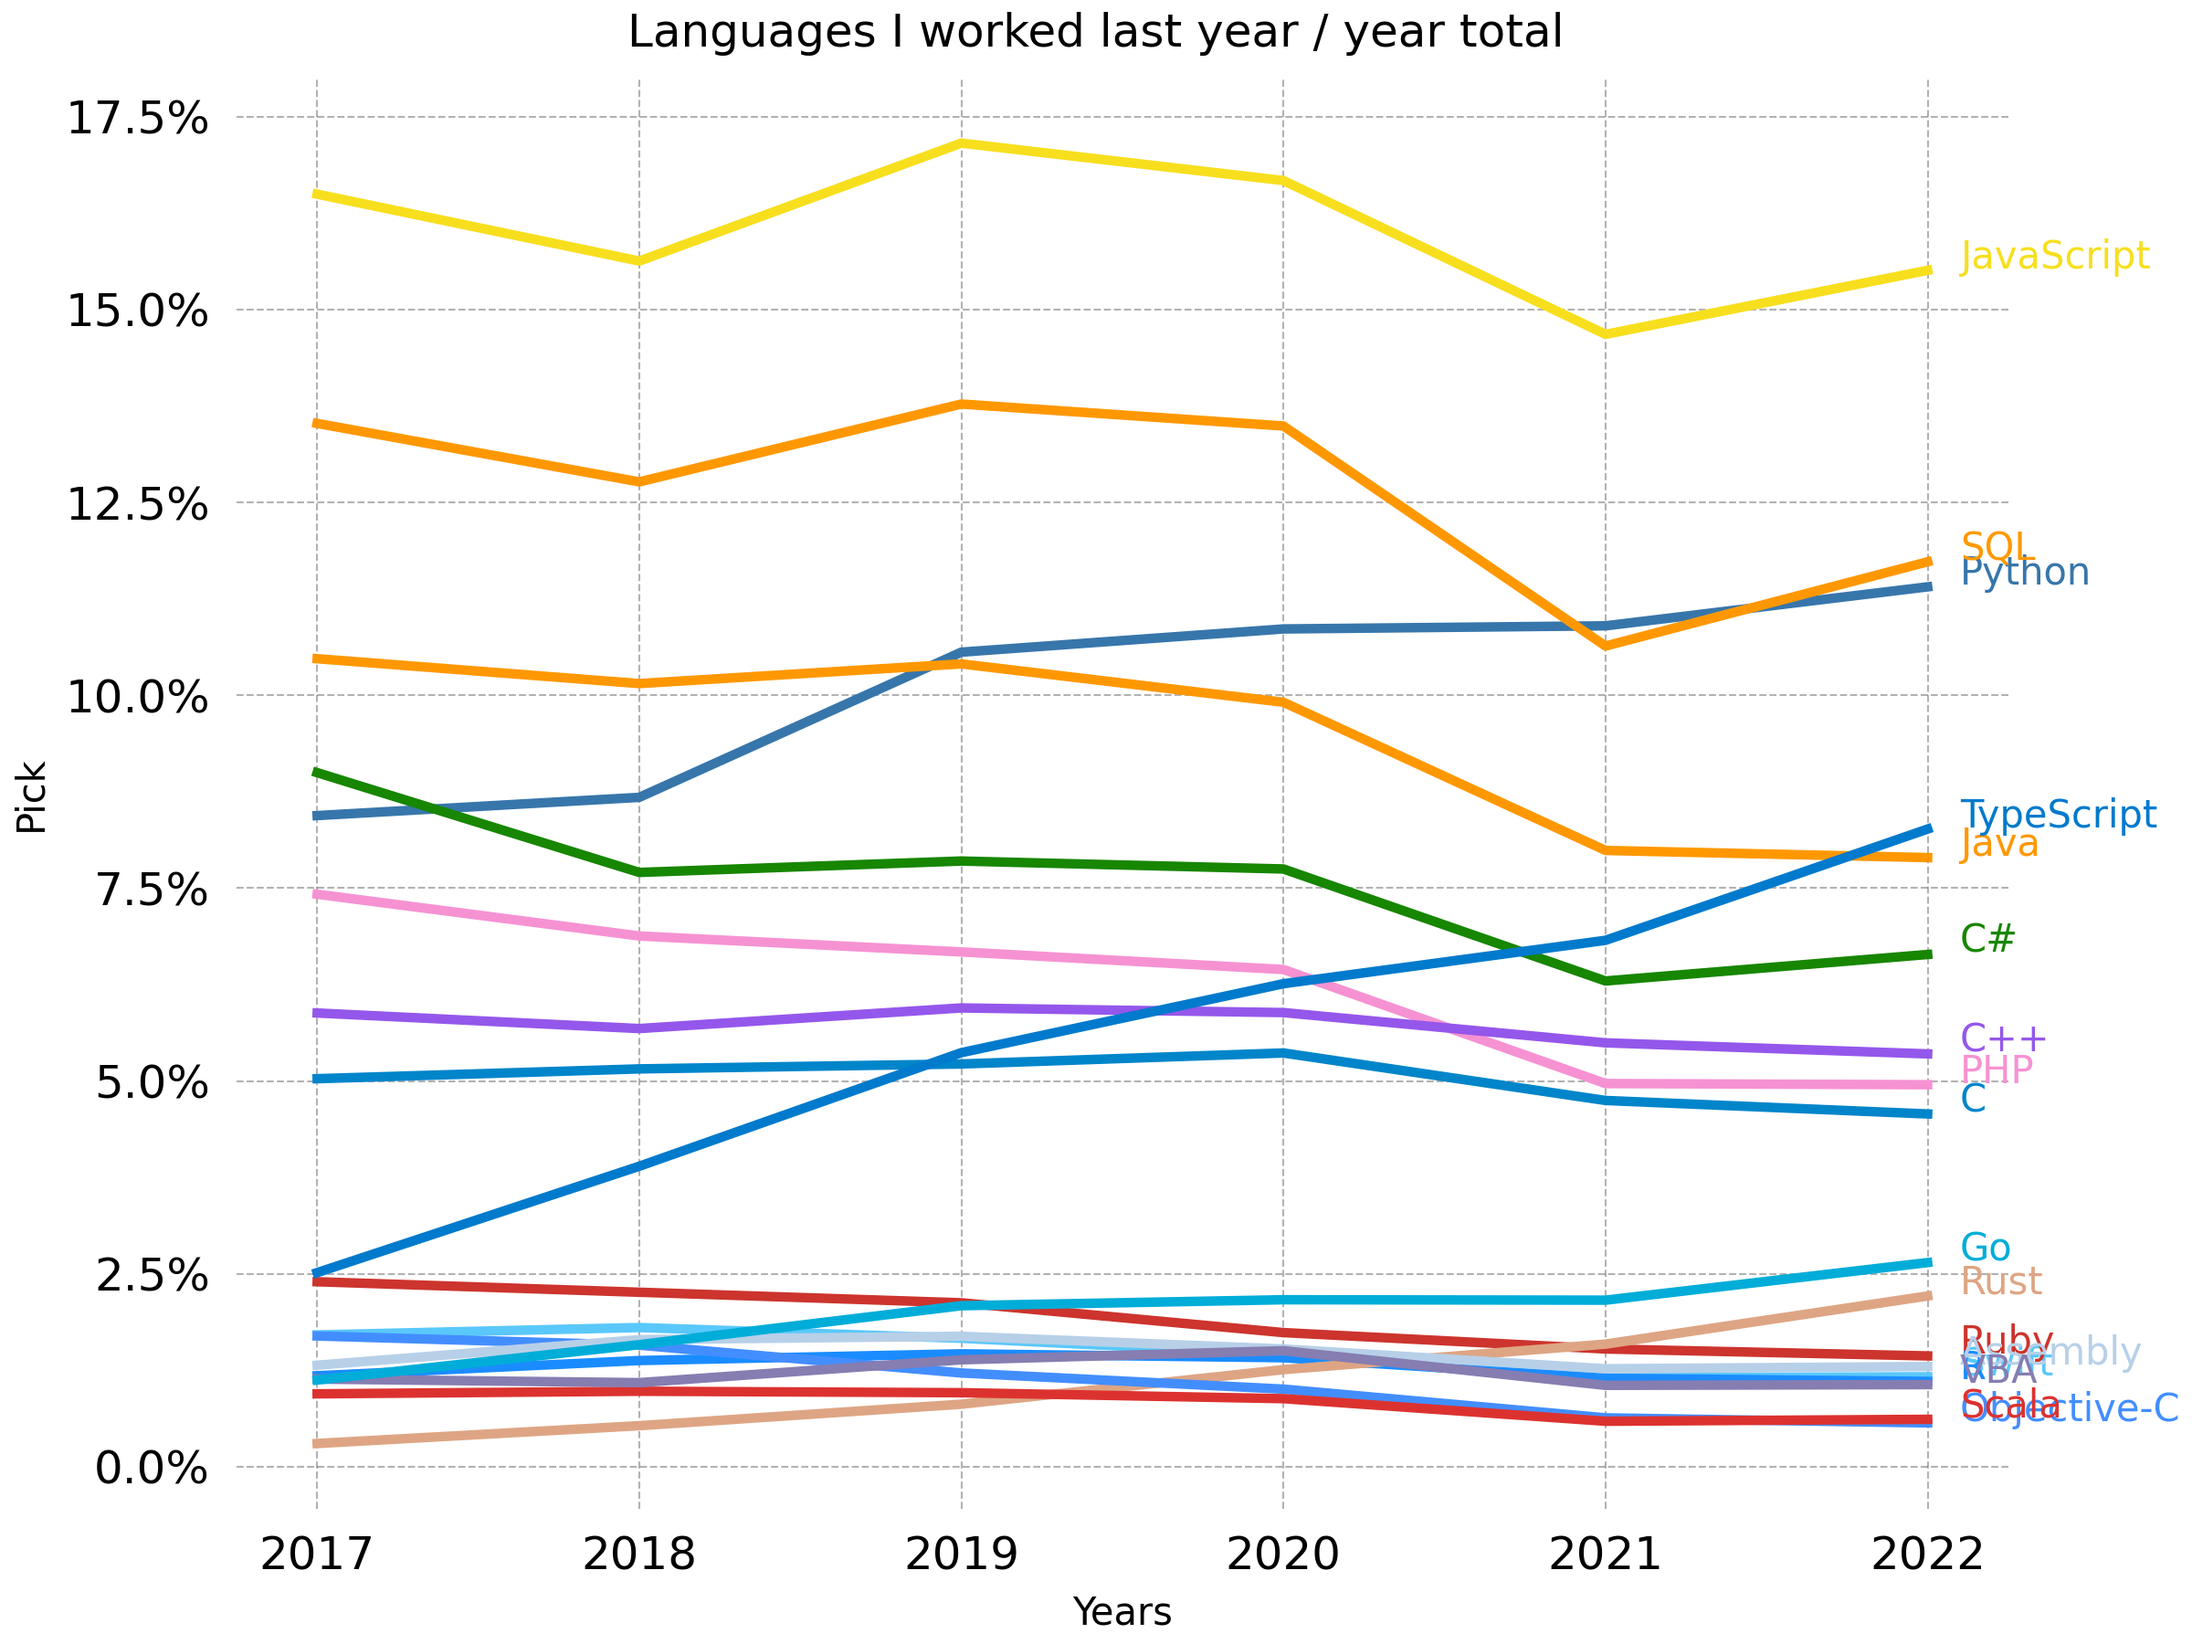
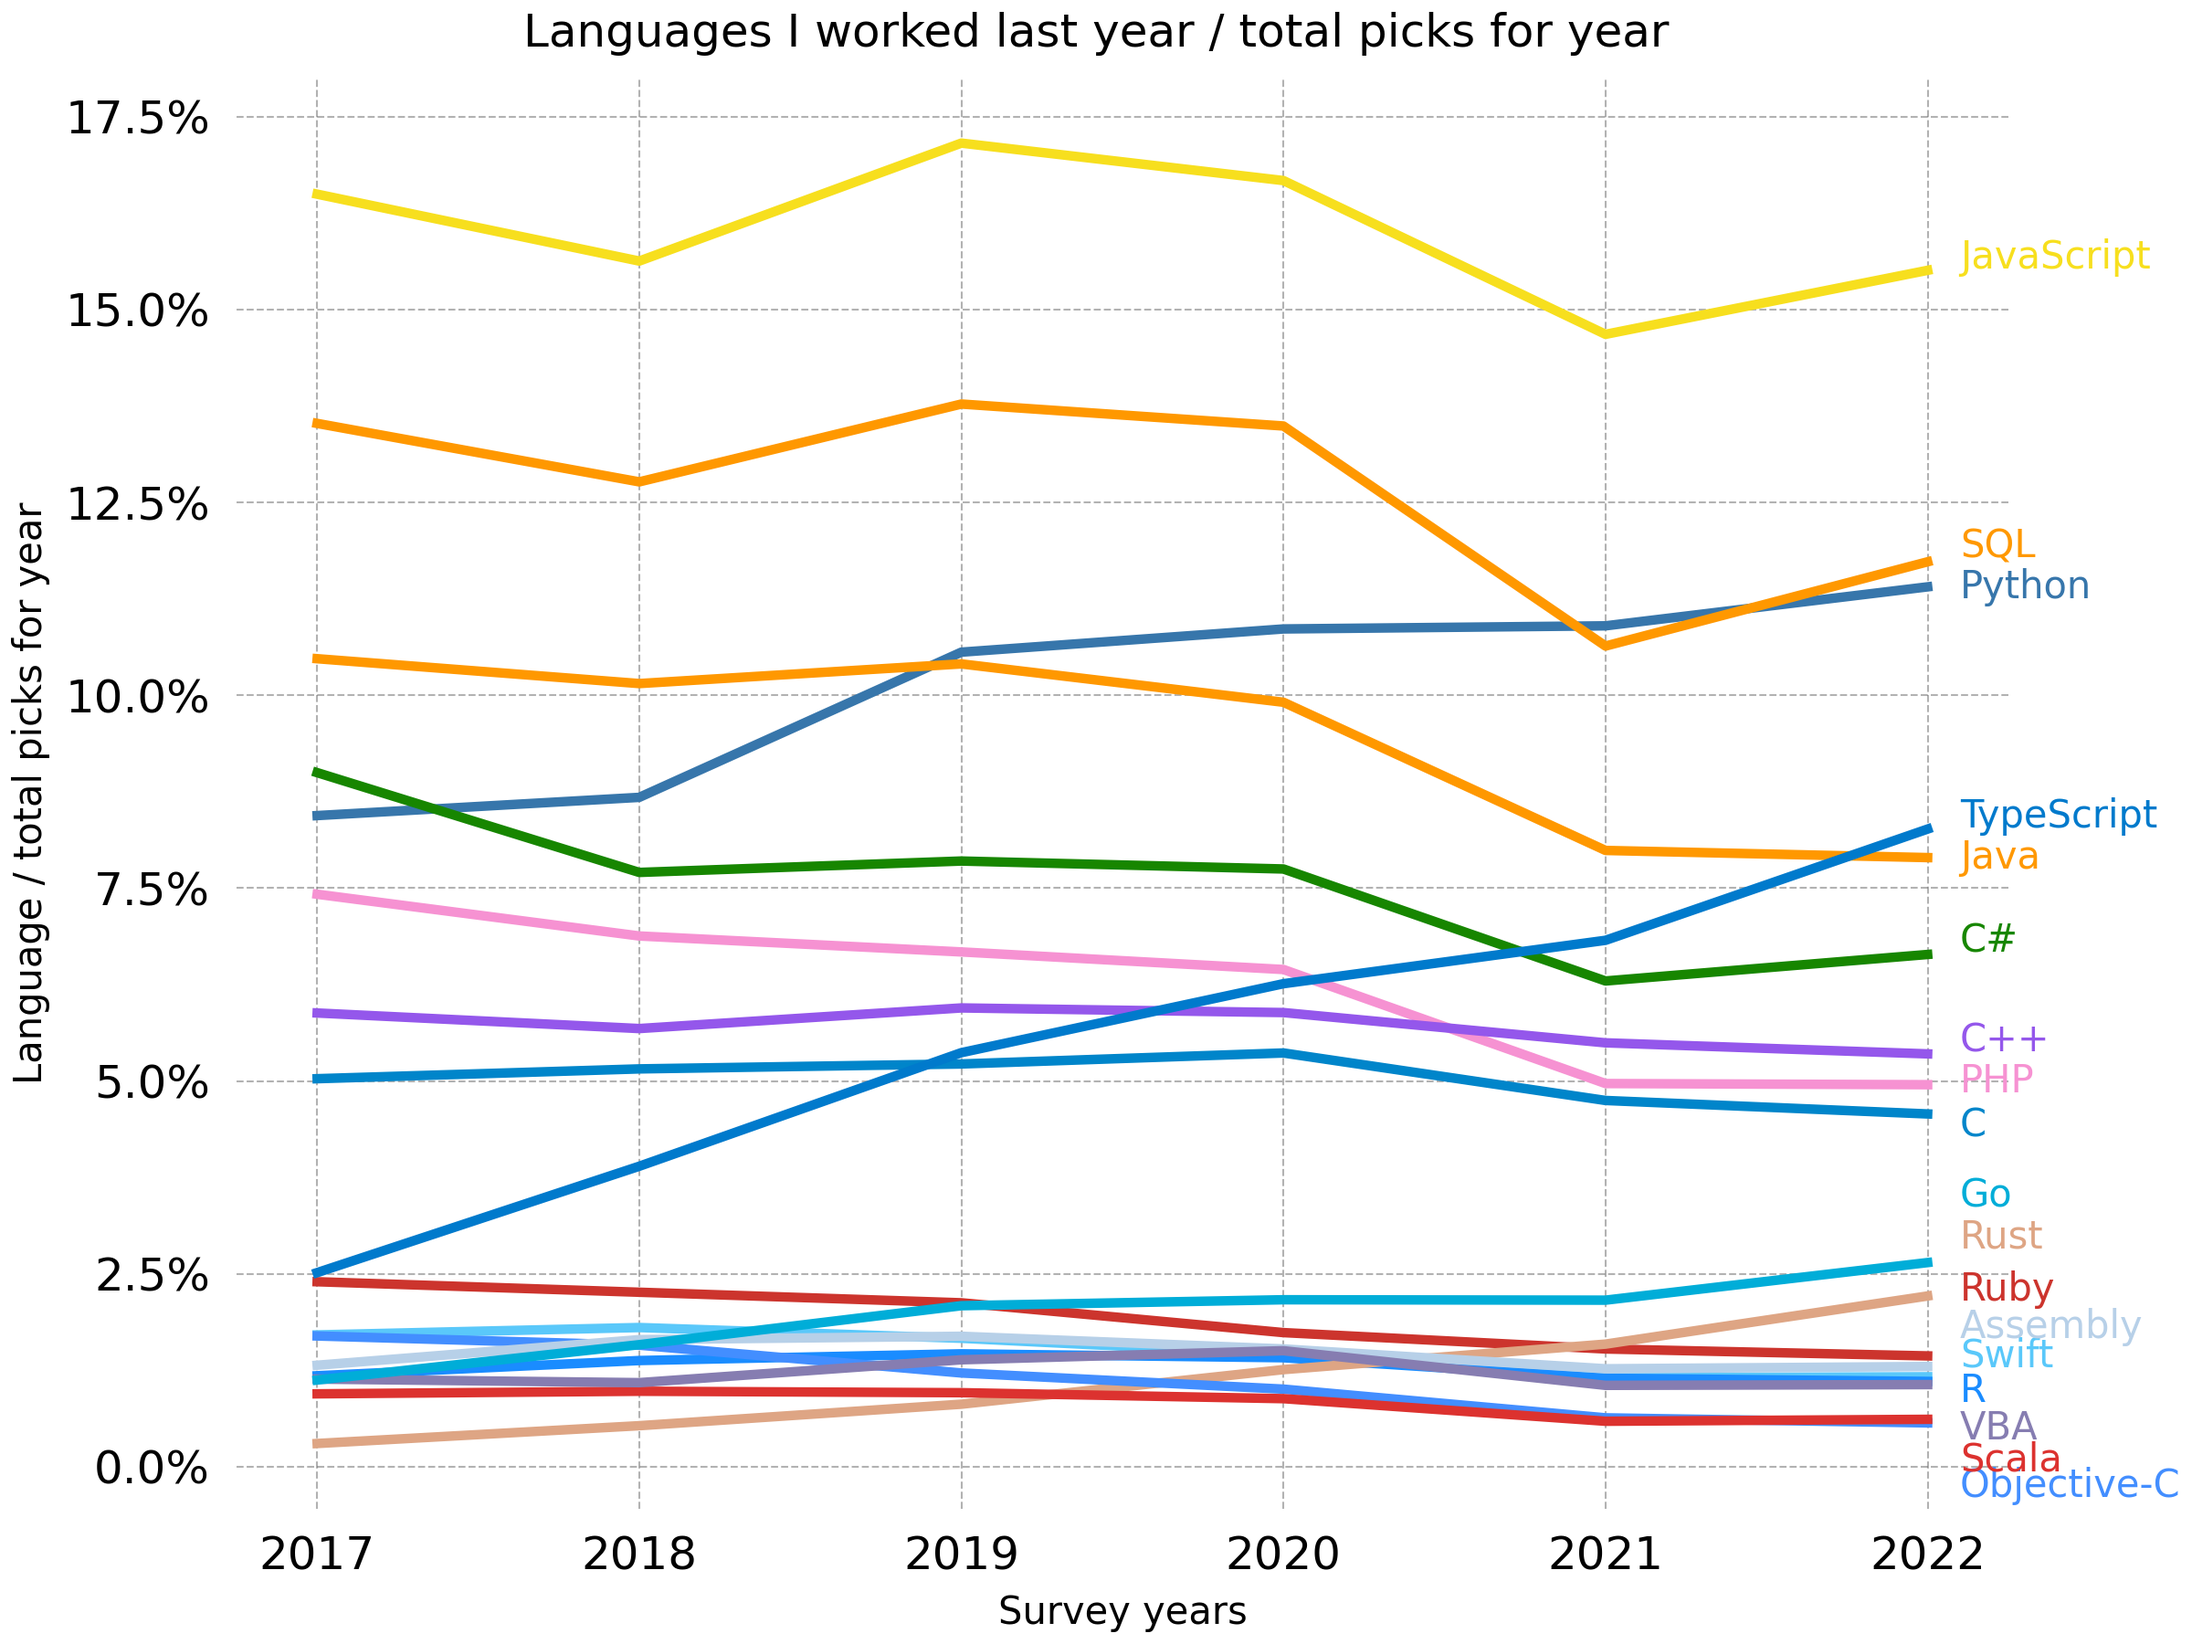
readme, legends/labels

diff --git a/visualize/normalized/visualize.py b/visualize/normalized/visualize.py
@@ -70,21 +70,21 @@ colors = {
     "PowerShell": "#012456",
 }
 label_offsets_vertical = {k: 0.5 for k in dataset["have"]}
-# label_offsets_vertical["SQL"] += 0.5
-# label_offsets_vertical["Python"] += -3.5
-# label_offsets_vertical["Java"] += -3.5
-# label_offsets_vertical["PHP"] += -2.5
-# label_offsets_vertical["C"] += -6.5
-# label_offsets_vertical["Go"] += 14
-# label_offsets_vertical["Rust"] += 12
-# label_offsets_vertical["Ruby"] += 14
+label_offsets_vertical["SQL"] += 0.5
+label_offsets_vertical["Python"] += -3.5
+label_offsets_vertical["Java"] += -3.5
+label_offsets_vertical["PHP"] += -2.5
+label_offsets_vertical["C"] += -6.5
+label_offsets_vertical["Go"] += 14
+label_offsets_vertical["Rust"] += 12
+label_offsets_vertical["Ruby"] += 14
 
-# label_offsets_vertical["Assembly"] += 7
-# label_offsets_vertical["Swift"] += 2
-# label_offsets_vertical["R"] += -6
-# label_offsets_vertical["VBA"] += -15
-# label_offsets_vertical["Scala"] += -14
-# label_offsets_vertical["Objective-C"] += -20
+label_offsets_vertical["Assembly"] += 7
+label_offsets_vertical["Swift"] += 2
+label_offsets_vertical["R"] += -6
+label_offsets_vertical["VBA"] += -15
+label_offsets_vertical["Scala"] += -14
+label_offsets_vertical["Objective-C"] += -20
 
 for lang, series in dataset["have"].items():
     line, = ax.plot(range(2017, 2023), series, lw=2.5, color=colors[lang])
@@ -117,9 +117,9 @@ ax.tick_params(
     right=False,
     labelleft=True
 )
-fig.suptitle("Languages I worked last year / year total", ha="center")
-plt.ylabel('Pick')
-plt.xlabel('Years')
+fig.suptitle("Languages I worked last year / total picks for year", ha="center")
+plt.ylabel('Language / total picks for year')
+plt.xlabel('Survey years')
 plt.savefig(
     fname="visualize/normalized/output.png",
     dpi=300,

diff --git a/visualize/raw/visualize.py b/visualize/raw/visualize.py
@@ -117,7 +117,7 @@ ax.tick_params(
 )
 fig.suptitle("Languages I worked last year", ha="center")
 plt.ylabel('Pick')
-plt.xlabel('Years')
+plt.xlabel('Survey years')
 plt.savefig(
     fname="visualize/raw/output.png",
     dpi=300,

diff --git a/README.md b/README.md
@@ -1,1 +1,5 @@
-# Review of YoY change on HaveWorkedLanguage and WantWorkLanguage keys in StackOverflow Surveys
+# YoY review of HaveWorkedLanguage and WantWorkLanguage results of StackOverflow Surveys (2017-2022)
+
+![](visualize/raw/output.png)
+
+![](visualize/normalized/output.png)
